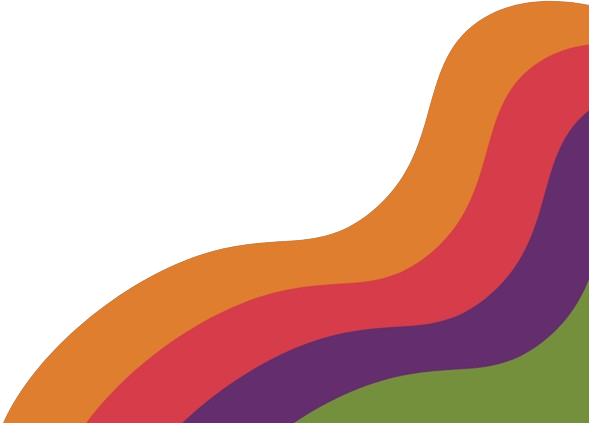
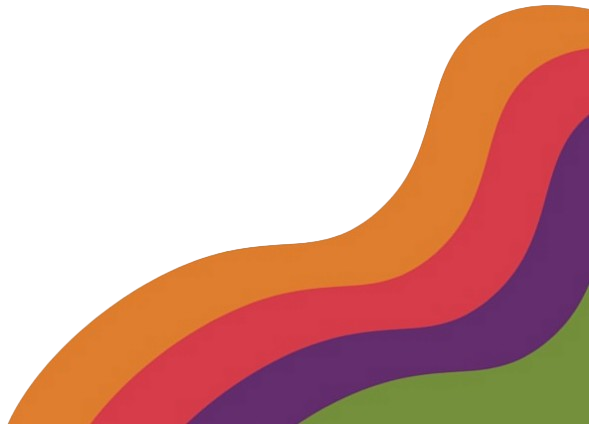
Add files via upload

diff --git a/EPTRAN/SA/Style/TelaDeCadastro.css b/EPTRAN/SA/Style/TelaDeCadastro.css
@@ -17,19 +17,14 @@ img {
     width: 90px;
 }
 
-form{
-    height: 100vh;
-    width: 100vw;
-}
-
 #log-center{
+    margin-left: 20vw;
     margin-right: 20vw;
-    margin-left: 12vw;
-    margin-top: 25vh;
-    margin-bottom: 25vh;
+    margin-top: 15vh;
+    margin-bottom: 35vh;
     font-family: 'Mont', sans-serif;
     z-index: -1;
-    width: 70vw;
+    width: 60vw;
     padding: 5px;
 }
 
@@ -39,16 +34,19 @@ form{
    margin-bottom:15px;
    display: flex;
    padding: 5px;
-   width: 100%;
-   margin-right: 11vw;
+   width: 60vw;
+   box-sizing: border-box;
+}
+
+.input textarea{
+    width: 20vw
 }
 
 #title{
     font-size: larger;
     font-weight: lighter;
     font-family: sans-serif;
-    margin-right: 15%;
-    margin-left: 40%;
+    margin-left: 25%;
 }
 
 #outros{
@@ -60,7 +58,9 @@ form{
     margin-left: 25%;
 }
 
-#outros h5{
+
+:-moz-any
+, h5{
     margin-left: 12.5%;
 }
 
@@ -73,7 +73,6 @@ form{
 }
 
 .input input{
-    color:grey;
 border: none;
 width: 100%;
 height: 100%;
@@ -83,6 +82,18 @@ padding: 5px;
 
  textarea:focus, input:focus{
     outline: none;
+}
+
+
+#title{
+    margin-left: 25%;
+    margin-right: 25%;
+}
+
+input[type=password]::-ms-reveal,
+input[type=password]::-ms-clear
+{
+    display: none;
 }
 
 .input select{
@@ -114,10 +125,6 @@ padding: 5px;
      textarea:focus, select:focus{
         outline: none;
     }
-.email{
-    height: 100%;
-    width: 100%;
-}
 
 input[type=password]::-ms-reveal,
 input[type=password]::-ms-clear

diff --git a/EPTRAN/SA/Style/MenuHidden.css b/EPTRAN/SA/Style/MenuHidden.css
@@ -6,7 +6,7 @@ header {
     background-color: #003965;
     height: 100px;
     position: sticky;
-     z-index: 3;
+    z-index: 3;
 }
 
 header img .logoEPTRAN {
@@ -68,10 +68,10 @@ header img .logoEPTRAN {
 }
 
 .menuHidden{
-    margin-left: 55vw;
-    height: 37vh;
+    height: 340px;
     width: 200px;
     position: absolute;
+    right: 0px;
     float: right;
     z-index: 2;
     background-color: #002b4d;
@@ -79,14 +79,15 @@ header img .logoEPTRAN {
     font-family: sans-serif;
     font-size: 15px;
     border-bottom-left-radius: 20px;
+    overflow-x: hidden;
     top: -35vh;
 }
 
 .menuShow{
-    margin-left: 55vw;
-    height: 37vh;
+    height: 340px;
     width: 200px;
     position: absolute;
+    right: 0px;
     float: right;
     z-index: 2;
     background-color: #002b4d;
@@ -94,18 +95,19 @@ header img .logoEPTRAN {
     font-family: sans-serif;
     font-size: 15px;
     border-bottom-left-radius: 20px;
+    overflow-x: hidden;
     display: block;
     animation-name: appearMenu;
     animation-duration: 400ms;
     animation-timing-function: ease-in-out;
 
-}
+} 
 
 .menuHide{
-    margin-left: 55vw;
-    height: 37vh;
+    height: 350px;
     width: 200px;
     position: absolute;
+    right: 0px;
     float: right;
     z-index: 2;
     background-color: #002b4d;
@@ -113,6 +115,7 @@ header img .logoEPTRAN {
     font-family: sans-serif;
     font-size: 15px;
     border-bottom-left-radius: 20px;
+    overflow-x: hidden;
     top: -35vh;
 }
 

diff --git a/EPTRAN/SA/Style/TelaDeLogin.css b/EPTRAN/SA/Style/TelaDeLogin.css
@@ -1,8 +1,8 @@
 body {
     margin: 0;
     padding: 0;
-    height: 100vh;
-    width: 100vw;
+    height: 100%;
+    justify-content: center;
 }
 
 header {
@@ -11,26 +11,18 @@ header {
     position: sticky;
      z-index: 3;
 }
-
 img {
     height: 80px;
     width: 80px;
     margin-top: 10px;
 }
-
-form{
-    height: 100vh;
-    width: 100vw;
-}
-
 #log-center{
-    margin-right: 20vw;
-    margin-left: 12vw;
+    margin-left: 25vw;
     margin-top: 25vh;
     margin-bottom: 25vh;
     font-family: 'Mont', sans-serif;
     z-index: -1;
-    width: 70vw;
+    width: 50vw;
     padding: 5px;
 }
 
@@ -40,14 +32,18 @@ form{
    margin-bottom:15px;
    display: flex;
    padding: 5px;
-   width: 100%;
-   margin-right: 10vw;
+   width: 250px;
+}
+
+.input textarea{
+    width: 250px;
 }
 
 #title{
     font-size: larger;
     font-weight: lighter;
     font-family: sans-serif;
+    margin-left: 25%;
 }
 
 #outros{
@@ -85,10 +81,6 @@ padding: 5px;
     outline: none;
 }
 
-.email{
-    height: 100%;
-    width: 100%;
-}
 
 #title{
     margin-left: 25%;

diff --git a/EPTRAN/SA/Style/TelaInicial.css b/EPTRAN/SA/Style/TelaInicial.css
@@ -1,18 +1,21 @@
 body{
-    margin: 0;
-    padding: 0;
+    min-height: 100vh;
+    max-width: auto;
+    margin: 0 auto;
     background-image: url(../Style/Imagens/Ondas.png);
     background-repeat: no-repeat;
-    background-size: 75%;
+    background-size: 250px;
     background-position-x: right;
     background-position-y: bottom;
+    justify-content: space-around;
 } 
 
 header{
     background-color: #003965;
     height: 100px;
+    width: 100%;
     position: sticky;
-     z-index: 3;
+    z-index: 3;
 }
 
 img{
@@ -21,12 +24,10 @@ img{
     margin-top: 10px;
 }
 
-#menu{
-    margin: 15px;
-    margin-top: 30px;
-    float: right;
-    height: 50px;
-    width: 50px;
-    position: sticky;
+.cinza {
+    background-color: rgb(163, 163, 163);
+    height: 200px;
+    margin: 5vw;
+    width: 90vw;
+    border-radius: 15px;
 }
-

diff --git a/EPTRAN/SA/Páginas/TelaInicial.html b/EPTRAN/SA/Páginas/TelaInicial.html
@@ -16,6 +16,7 @@
         <img id="logoEPTRAN" src="../Style/Imagens/LogoEptranBranca.png">
         <i  id="menu" class="fa-solid fa-bars fa-3x" style="color: #ffffff;"></i>
     </header>
+
     <div id="opacBlack"></div>
     <div class="menuHidden" id="miniMenu">
         <ul>
@@ -28,7 +29,9 @@
         </ul>
     </div>
     <div class="video">
-       
+       <div class="cinza">
+
+       </div>
     </div>
 </body>
 </html>

diff --git a/EPTRAN/SA/Páginas/TelaDeLogin.html b/EPTRAN/SA/Páginas/TelaDeLogin.html
@@ -10,7 +10,6 @@
     <link href="https://fonts.cdnfonts.com/css/mont" rel="stylesheet">
 </head>
 <body>
-    <div id="opacBlack"></div>
     <header>
         <img src="../Style/Imagens/logoPrefeituraBranca.png">
         <img src="../Style/Imagens/LogoEptranBranca.png">

diff --git a/EPTRAN/SA/Páginas/TelaDeCadastro.html b/EPTRAN/SA/Páginas/TelaDeCadastro.html
@@ -12,7 +12,6 @@
 </head>
 
 <body>
-    <div id="opacBlack"></div>
     <header>
         <img src="../Style/Imagens/logoPrefeituraBranca.png">  
         <img src="../Style/Imagens/LogoEptranBranca.png">    
